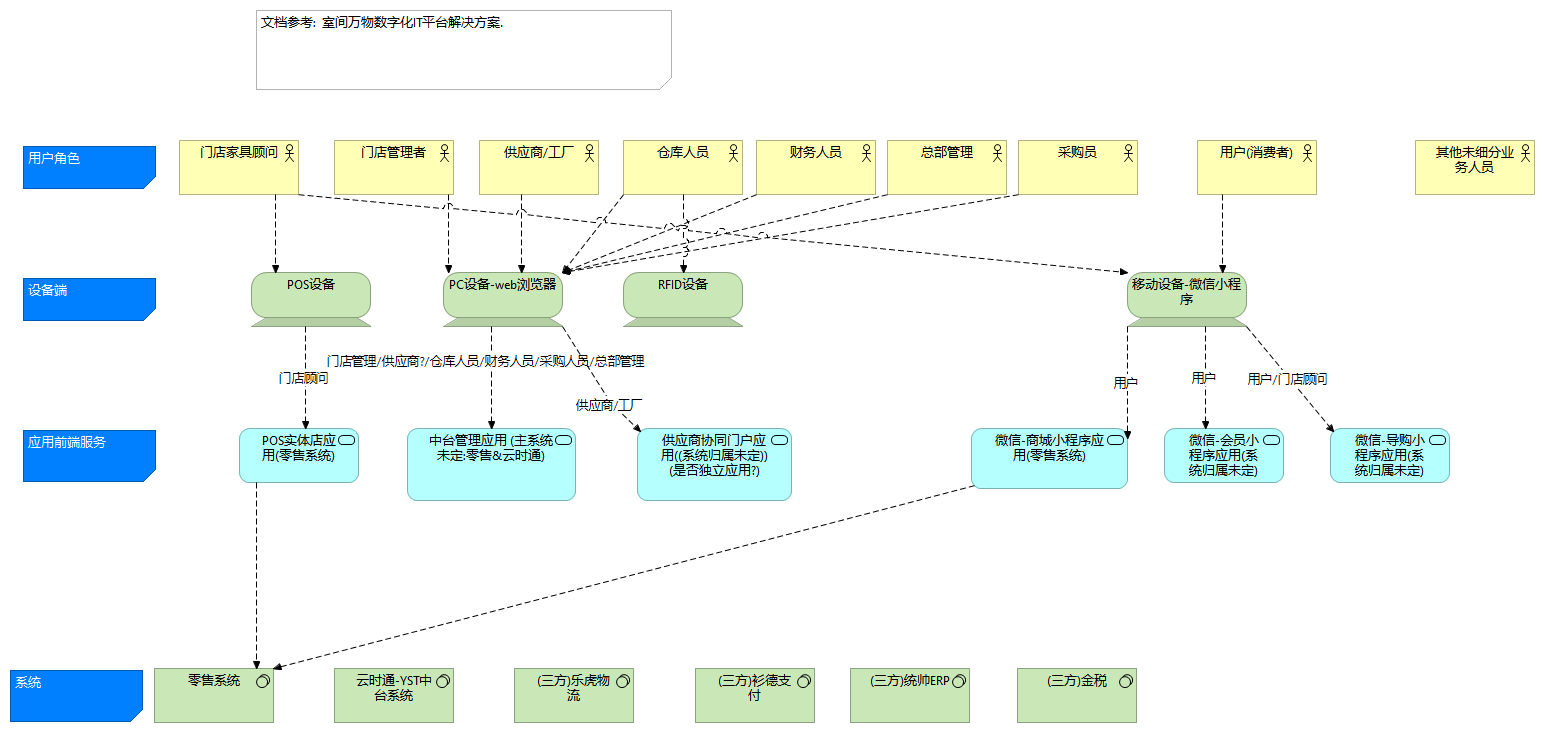
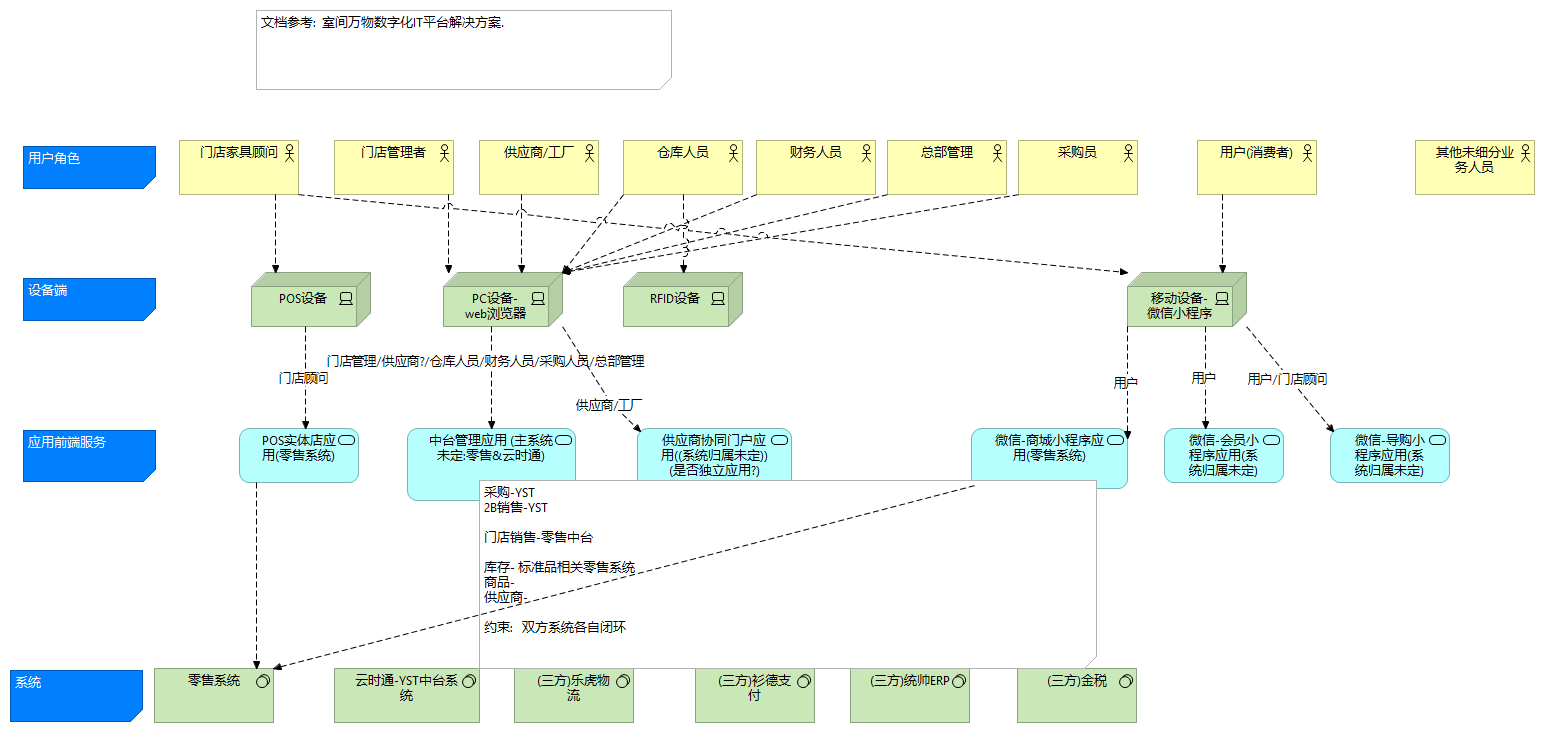
20250227

diff --git a/34770de6-0f0d-4ed1-897c-b10a5c500e00/views/65d1aa59-f700-429f-b2c6-605dea6f9c71.html b/34770de6-0f0d-4ed1-897c-b10a5c500e00/views/65d1aa59-f700-429f-b2c6-605dea6f9c71.html
@@ -34,55 +34,55 @@
 		    <!-- If this is a digram model (has children and no bounds) show the image -->
 			   <img class="diagram" src="../images/65d1aa59-f700-429f-b2c6-605dea6f9c71.png" alt="2.中台管理应用功能识别-系统数据与主数据" usemap="#65d1aa59-f700-429f-b2c6-605dea6f9c71map"/>
 			   <map name="65d1aa59-f700-429f-b2c6-605dea6f9c71map">
-				          <area shape="rect" coords="256,10,672,90" href="../objects/b4d12e95-c731-44cc-a542-ea11e295e5c4.html" target="element" >
-				          <area shape="rect" coords="10,790,143,842" href="../objects/8672bc64-2873-4649-9368-ef08358518ee.html" target="element" >
-				          <area shape="rect" coords="23,430,156,482" href="../objects/d6e04c95-81e4-4403-9e03-4d9f40adf0b7.html" target="element" >
-				          <area shape="rect" coords="23,278,156,321" href="../objects/6e0042a1-cdc5-4657-bc05-3d011d6d8c7a.html" target="element" >
-				          <area shape="rect" coords="23,146,156,189" href="../objects/bc2d6315-ab5c-4788-821f-82c86d2caf66.html" target="element" >
-				  		<area shape="rect" coords="887,140,1007,195" href="../elements/bf04395c-07aa-48e3-bec7-cad218525538.html"  target="element">
-				  		<area shape="rect" coords="756,140,876,195" href="../elements/6993d970-73ee-48ab-8b9b-7c3d75da7f14.html"  target="element">
-				  		<area shape="rect" coords="623,140,743,195" href="../elements/31a607ff-ae0f-4d7b-bacd-fe9e43547fcf.html"  target="element">
-				  		<area shape="rect" coords="637,428,792,501" href="../elements/18f5ea27-2885-484c-8cdc-212444555501.html"  target="element">
-				  		<area shape="rect" coords="334,140,454,195" href="../elements/ec091b66-deec-4b7e-976d-a58433a5390a.html"  target="element">
-				  		<area shape="rect" coords="1404,796,1524,851" href="../elements/c132eb31-96e9-4ef3-a9f5-3e6cc9db9bc7.html"  target="element">
-				  		<area shape="rect" coords="1392,736,1512,791" href="../elements/ec630327-4ba6-4493-8c44-feafc7791f64.html"  target="element">
-				  		<area shape="rect" coords="623,272,743,327" href="../elements/af401599-c58b-484c-9c59-db13b88a4204.html"  target="element">
-				  		<area shape="rect" coords="251,272,371,327" href="../elements/c2ad6df5-65f6-4c42-a41c-8dc0d42cc609.html"  target="element">
-				  		<area shape="rect" coords="407,428,576,501" href="../elements/bb185dc3-b20a-4772-ae32-eb51d147de0d.html"  target="element">
-				  		<area shape="rect" coords="1330,428,1450,483" href="../elements/1bde537c-7ef0-4525-9551-a9c09d62414c.html"  target="element">
-				  		<area shape="rect" coords="1164,428,1284,483" href="../elements/038bd236-f05f-4375-875e-16b2270ec657.html"  target="element">
-				  		<area shape="rect" coords="1261,736,1381,791" href="../elements/cff98cd9-3c2e-4d0e-8908-1f02d01187ee.html"  target="element">
-				  		<area shape="rect" coords="1127,272,1247,327" href="../elements/69b98a8f-6e68-44e1-8337-43479e1770f8.html"  target="element">
-				  		<area shape="rect" coords="443,272,563,327" href="../elements/10163c47-01a7-4303-96e5-4a00cf40bf8f.html"  target="element">
-				  		<area shape="rect" coords="239,428,359,483" href="../elements/f114dd21-3d0a-41fa-896e-3b674a56526e.html"  target="element">
-				  		<area shape="rect" coords="971,428,1128,489" href="../elements/b6be130b-13c3-4482-a697-8f8f8b68754b.html"  target="element">
-				  		<area shape="rect" coords="1197,140,1317,195" href="../elements/d9ce8c66-7105-4d32-985c-57b56bc5f8b4.html"  target="element">
-				  		<area shape="rect" coords="683,764,803,819" href="../elements/4f49d0bf-5bcc-430c-863f-5342fd9cbe9d.html"  target="element">
-				  		<area shape="rect" coords="370,764,490,819" href="../elements/c8524bae-0175-4184-a708-9c9602f63752.html"  target="element">
-				  		<area shape="rect" coords="1261,796,1381,851" href="../elements/548573e7-63f5-4b81-9220-5aff65c7950b.html"  target="element">
-				  		<area shape="rect" coords="179,140,299,195" href="../elements/51859db1-ea1e-49c4-b23a-d12d69e7b6fe.html"  target="element">
-				  		<area shape="rect" coords="1415,140,1535,195" href="../elements/bcc74262-ea1f-48ea-812f-06970028ea94.html"  target="element">
-				  		<area shape="rect" coords="1018,140,1138,195" href="../elements/8d4500b9-79d9-4577-ac1a-e2764b1bd6d5.html"  target="element">
-				  		<area shape="rect" coords="479,140,599,195" href="../elements/ea815ae4-3b8f-48dc-ba97-f4da7477a959.html"  target="element">
-				  				<area shape="rect" coords="269,647,389,702" href="../elements/c8e1d7ea-e530-45ca-b582-ffcbef54fafa.html"  target="element">
-				  				<area shape="rect" coords="150,647,270,702" href="../elements/ae98fcc6-f35d-46be-817e-b9bc3211d8e4.html"  target="element">
-				  				<area shape="rect" coords="388,593,508,648" href="../elements/8f224d70-a1a8-46ee-b3bc-12976883a94f.html"  target="element">
-				  				<area shape="rect" coords="269,593,389,648" href="../elements/b9b177cc-5a8c-4788-bbb1-96391625d2fe.html"  target="element">
-				  				<area shape="rect" coords="150,593,270,648" href="../elements/0bf12577-13b4-4a2a-9a59-4f0606b923c7.html"  target="element">
+				          <area shape="rect" coords="387,10,803,90" href="../objects/b4d12e95-c731-44cc-a542-ea11e295e5c4.html" target="element" >
+				          <area shape="rect" coords="10,780,143,832" href="../objects/8672bc64-2873-4649-9368-ef08358518ee.html" target="element" >
+				          <area shape="rect" coords="23,420,156,472" href="../objects/d6e04c95-81e4-4403-9e03-4d9f40adf0b7.html" target="element" >
+				          <area shape="rect" coords="23,268,156,311" href="../objects/6e0042a1-cdc5-4657-bc05-3d011d6d8c7a.html" target="element" >
+				          <area shape="rect" coords="23,136,156,179" href="../objects/bc2d6315-ab5c-4788-821f-82c86d2caf66.html" target="element" >
+				  		<area shape="rect" coords="887,130,1007,185" href="../elements/bf04395c-07aa-48e3-bec7-cad218525538.html"  target="element">
+				  		<area shape="rect" coords="756,130,876,185" href="../elements/6993d970-73ee-48ab-8b9b-7c3d75da7f14.html"  target="element">
+				  		<area shape="rect" coords="623,130,743,185" href="../elements/31a607ff-ae0f-4d7b-bacd-fe9e43547fcf.html"  target="element">
+				  		<area shape="rect" coords="637,418,792,491" href="../elements/18f5ea27-2885-484c-8cdc-212444555501.html"  target="element">
+				  		<area shape="rect" coords="334,130,454,185" href="../elements/ec091b66-deec-4b7e-976d-a58433a5390a.html"  target="element">
+				  		<area shape="rect" coords="1404,786,1524,841" href="../elements/c132eb31-96e9-4ef3-a9f5-3e6cc9db9bc7.html"  target="element">
+				  		<area shape="rect" coords="1392,726,1512,781" href="../elements/ec630327-4ba6-4493-8c44-feafc7791f64.html"  target="element">
+				  		<area shape="rect" coords="623,262,743,317" href="../elements/af401599-c58b-484c-9c59-db13b88a4204.html"  target="element">
+				  		<area shape="rect" coords="251,262,371,317" href="../elements/c2ad6df5-65f6-4c42-a41c-8dc0d42cc609.html"  target="element">
+				  		<area shape="rect" coords="407,418,576,491" href="../elements/bb185dc3-b20a-4772-ae32-eb51d147de0d.html"  target="element">
+				  		<area shape="rect" coords="1330,418,1450,473" href="../elements/1bde537c-7ef0-4525-9551-a9c09d62414c.html"  target="element">
+				  		<area shape="rect" coords="1164,418,1284,473" href="../elements/038bd236-f05f-4375-875e-16b2270ec657.html"  target="element">
+				  		<area shape="rect" coords="1261,726,1381,781" href="../elements/cff98cd9-3c2e-4d0e-8908-1f02d01187ee.html"  target="element">
+				  		<area shape="rect" coords="1127,262,1247,317" href="../elements/69b98a8f-6e68-44e1-8337-43479e1770f8.html"  target="element">
+				  		<area shape="rect" coords="443,262,563,317" href="../elements/10163c47-01a7-4303-96e5-4a00cf40bf8f.html"  target="element">
+				  		<area shape="rect" coords="239,418,359,473" href="../elements/f114dd21-3d0a-41fa-896e-3b674a56526e.html"  target="element">
+				  		<area shape="rect" coords="971,418,1128,479" href="../elements/b6be130b-13c3-4482-a697-8f8f8b68754b.html"  target="element">
+				  		<area shape="rect" coords="1197,130,1317,185" href="../elements/d9ce8c66-7105-4d32-985c-57b56bc5f8b4.html"  target="element">
+				  		<area shape="rect" coords="683,754,803,809" href="../elements/4f49d0bf-5bcc-430c-863f-5342fd9cbe9d.html"  target="element">
+				  		<area shape="rect" coords="370,754,490,809" href="../elements/c8524bae-0175-4184-a708-9c9602f63752.html"  target="element">
+				  		<area shape="rect" coords="1261,786,1381,841" href="../elements/548573e7-63f5-4b81-9220-5aff65c7950b.html"  target="element">
+				  		<area shape="rect" coords="179,130,299,185" href="../elements/51859db1-ea1e-49c4-b23a-d12d69e7b6fe.html"  target="element">
+				  		<area shape="rect" coords="1415,130,1535,185" href="../elements/bcc74262-ea1f-48ea-812f-06970028ea94.html"  target="element">
+				  		<area shape="rect" coords="1018,130,1138,185" href="../elements/8d4500b9-79d9-4577-ac1a-e2764b1bd6d5.html"  target="element">
+				  		<area shape="rect" coords="479,130,599,185" href="../elements/ea815ae4-3b8f-48dc-ba97-f4da7477a959.html"  target="element">
+				  				<area shape="rect" coords="269,637,389,692" href="../elements/c8e1d7ea-e530-45ca-b582-ffcbef54fafa.html"  target="element">
+				  				<area shape="rect" coords="150,637,270,692" href="../elements/ae98fcc6-f35d-46be-817e-b9bc3211d8e4.html"  target="element">
+				  				<area shape="rect" coords="388,583,508,638" href="../elements/8f224d70-a1a8-46ee-b3bc-12976883a94f.html"  target="element">
+				  				<area shape="rect" coords="269,583,389,638" href="../elements/b9b177cc-5a8c-4788-bbb1-96391625d2fe.html"  target="element">
+				  				<area shape="rect" coords="150,583,270,638" href="../elements/0bf12577-13b4-4a2a-9a59-4f0606b923c7.html"  target="element">
 
-				  		<area shape="rect" coords="126,545,526,737" href="../elements/db442271-58c0-4a13-bda1-b2e30a73565c.html"  target="element">
-				  				<area shape="rect" coords="657,633,777,688" href="../elements/b1c41c53-9bc3-4211-82bd-4e53949b1ab9.html"  target="element">
-				  				<area shape="rect" coords="776,633,896,688" href="../elements/99b89f0f-bb9c-4929-a4da-0c674b5b5d49.html"  target="element">
-				  				<area shape="rect" coords="895,633,1015,688" href="../elements/d5643bef-74f4-45ef-9288-d82ee232bd26.html"  target="element">
-				  				<area shape="rect" coords="1375,579,1495,634" href="../elements/3616b62b-f738-4871-8418-ea25ef13b535.html"  target="element">
-				  				<area shape="rect" coords="1256,579,1376,634" href="../elements/dc341068-4e06-4c32-849a-8aeaebdfdd39.html"  target="element">
-				  				<area shape="rect" coords="1137,579,1257,634" href="../elements/c1c6241a-a936-4c85-acd9-e9c138985282.html"  target="element">
-				  				<area shape="rect" coords="1014,579,1134,634" href="../elements/53dd6589-c909-4cef-a317-29fa61044d4c.html"  target="element">
-				  				<area shape="rect" coords="895,579,1015,634" href="../elements/f5236548-faf5-4d5b-a67d-04aaeacf62f3.html"  target="element">
-				  				<area shape="rect" coords="776,579,896,634" href="../elements/833c751d-4d3d-44ba-adfa-5f8c205549db.html"  target="element">
-				  				<area shape="rect" coords="657,579,777,634" href="../elements/0e28d206-8c3b-400d-8ce0-a2716548121a.html"  target="element">
+				  		<area shape="rect" coords="126,535,526,727" href="../elements/db442271-58c0-4a13-bda1-b2e30a73565c.html"  target="element">
+				  				<area shape="rect" coords="657,623,777,678" href="../elements/b1c41c53-9bc3-4211-82bd-4e53949b1ab9.html"  target="element">
+				  				<area shape="rect" coords="776,623,896,678" href="../elements/99b89f0f-bb9c-4929-a4da-0c674b5b5d49.html"  target="element">
+				  				<area shape="rect" coords="895,623,1015,678" href="../elements/d5643bef-74f4-45ef-9288-d82ee232bd26.html"  target="element">
+				  				<area shape="rect" coords="1375,569,1495,624" href="../elements/3616b62b-f738-4871-8418-ea25ef13b535.html"  target="element">
+				  				<area shape="rect" coords="1256,569,1376,624" href="../elements/dc341068-4e06-4c32-849a-8aeaebdfdd39.html"  target="element">
+				  				<area shape="rect" coords="1137,569,1257,624" href="../elements/c1c6241a-a936-4c85-acd9-e9c138985282.html"  target="element">
+				  				<area shape="rect" coords="1014,569,1134,624" href="../elements/53dd6589-c909-4cef-a317-29fa61044d4c.html"  target="element">
+				  				<area shape="rect" coords="895,569,1015,624" href="../elements/f5236548-faf5-4d5b-a67d-04aaeacf62f3.html"  target="element">
+				  				<area shape="rect" coords="776,569,896,624" href="../elements/833c751d-4d3d-44ba-adfa-5f8c205549db.html"  target="element">
+				  				<area shape="rect" coords="657,569,777,624" href="../elements/0e28d206-8c3b-400d-8ce0-a2716548121a.html"  target="element">
 
-				  		<area shape="rect" coords="645,555,1512,695" href="../elements/7c976f57-e40a-49ce-93a5-c0d96d37a202.html"  target="element">
+				  		<area shape="rect" coords="645,545,1512,685" href="../elements/7c976f57-e40a-49ce-93a5-c0d96d37a202.html"  target="element">
 
 			   </map>
 

diff --git a/34770de6-0f0d-4ed1-897c-b10a5c500e00/views/df3fab99-678c-4a3c-8ea5-64b352afeca6.html b/34770de6-0f0d-4ed1-897c-b10a5c500e00/views/df3fab99-678c-4a3c-8ea5-64b352afeca6.html
@@ -34,6 +34,7 @@
 		    <!-- If this is a digram model (has children and no bounds) show the image -->
 			   <img class="diagram" src="../images/df3fab99-678c-4a3c-8ea5-64b352afeca6.png" alt="1.应用角色/端/应用/系统关系识别" usemap="#df3fab99-678c-4a3c-8ea5-64b352afeca6map"/>
 			   <map name="df3fab99-678c-4a3c-8ea5-64b352afeca6map">
+				          <area shape="rect" coords="479,480,1097,669" href="../objects/f942c26a-ac5d-4f87-976a-0b3f2e139fb3.html" target="element" >
 				          <area shape="rect" coords="256,10,672,90" href="../objects/249b8187-bf31-4edd-aee3-52da4f2b4181.html" target="element" >
 				          <area shape="rect" coords="10,670,143,722" href="../objects/391b16d3-fe49-4176-b110-372df5b78f31.html" target="element" >
 				          <area shape="rect" coords="23,430,156,482" href="../objects/d471debd-a140-48b2-9c7a-700908f712a9.html" target="element" >
@@ -57,7 +58,7 @@
 				  		<area shape="rect" coords="239,428,359,483" href="../elements/f114dd21-3d0a-41fa-896e-3b674a56526e.html"  target="element">
 				  		<area shape="rect" coords="971,428,1128,489" href="../elements/b6be130b-13c3-4482-a697-8f8f8b68754b.html"  target="element">
 				  		<area shape="rect" coords="1197,140,1317,195" href="../elements/d9ce8c66-7105-4d32-985c-57b56bc5f8b4.html"  target="element">
-				  		<area shape="rect" coords="334,668,454,723" href="../elements/4f49d0bf-5bcc-430c-863f-5342fd9cbe9d.html"  target="element">
+				  		<area shape="rect" coords="334,668,480,723" href="../elements/4f49d0bf-5bcc-430c-863f-5342fd9cbe9d.html"  target="element">
 				  		<area shape="rect" coords="154,668,274,723" href="../elements/c8524bae-0175-4184-a708-9c9602f63752.html"  target="element">
 				  		<area shape="rect" coords="514,668,634,723" href="../elements/548573e7-63f5-4b81-9220-5aff65c7950b.html"  target="element">
 				  		<area shape="rect" coords="179,140,299,195" href="../elements/51859db1-ea1e-49c4-b23a-d12d69e7b6fe.html"  target="element">
@@ -258,6 +259,11 @@
 									           <td> <a href="../objects/249b8187-bf31-4edd-aee3-52da4f2b4181.html" target="element" class="i18n-elementtype-DiagramModelNote"> </a> </td>
 									        </tr>
 
+									        <tr>
+									           <td> <a href="../objects/f942c26a-ac5d-4f87-976a-0b3f2e139fb3.html" target="element">  </a> </td>
+									           <td> <a href="../objects/f942c26a-ac5d-4f87-976a-0b3f2e139fb3.html" target="element" class="i18n-elementtype-DiagramModelNote"> </a> </td>
+									        </tr>
+
 
 								</tbody>
 							</table>
@@ -394,6 +400,7 @@
 																		<td> <a href="../elements/10163c47-01a7-4303-96e5-4a00cf40bf8f.html" target="element"> PC&#35774;&#22791;-web&#27983;&#35272;&#22120; </a> </td>
 																	</tr>
 
+											<!-- DEBUG: Skipping element from class com.archimatetool.model.impl.DiagramModelNote -->
 											<!-- DEBUG: Skipping element from class com.archimatetool.model.impl.DiagramModelNote -->
 											<!-- DEBUG: Skipping element from class com.archimatetool.model.impl.DiagramModelNote -->
 											<!-- DEBUG: Skipping element from class com.archimatetool.model.impl.DiagramModelNote -->

diff --git a/34770de6-0f0d-4ed1-897c-b10a5c500e00/elements/model.html b/34770de6-0f0d-4ed1-897c-b10a5c500e00/elements/model.html
@@ -868,6 +868,29 @@
 										dataFoldersContent.push({folderid:"1fd97be9-561c-43fb-b750-8ff8e331a9c5", contentid:"0db2ba29-51c0-479f-9ffc-2c6b13c845ff", contenttype:"CanvasModel"});
 											dataViews.push({id:"0db2ba29-51c0-479f-9ffc-2c6b13c845ff", type:"CanvasModel", name:decodeURL("%E5%94%AE%E5%89%8D%E4%B8%9A%E5%8A%A1%E6%9D%90%E6%96%99"), documentation:decodeURL("")});
 
+									dataFoldersContent.push({folderid:"038ea2ec-8da2-4d90-a6c0-cffe7434323b", contentid:"id-5a45cf3d65374534a799f71412d6d9ae", contenttype:"Folder"});
+									dataFolders.push({id:"id-5a45cf3d65374534a799f71412d6d9ae", type:"Folder", name:decodeURL("%E9%92%89%E9%92%89%E5%B7%A5%E4%BD%9C%E6%B5%81%E9%9B%86%E6%88%90"), documentation:decodeURL("")});
+										dataFoldersContent.push({folderid:"id-5a45cf3d65374534a799f71412d6d9ae", contentid:"27e15e73-f31a-430b-8958-1c5d27cbc865", contenttype:"SketchModel"});
+											dataViews.push({id:"27e15e73-f31a-430b-8958-1c5d27cbc865", type:"SketchModel", name:decodeURL("%E9%92%89%E9%92%89%E6%B5%81%E7%A8%8B%E5%BC%80%E5%8F%91%E8%BF%87%E7%A8%8B1-%E4%B8%9A%E5%8A%A1%E5%B7%A5%E4%BD%9C%E6%B5%81%E7%A8%8B%E5%88%9B%E5%BB%BA"), documentation:decodeURL("")});
+													
+															
+													
+
+													
+															
+													
+
+										dataFoldersContent.push({folderid:"id-5a45cf3d65374534a799f71412d6d9ae", contentid:"94fff974-a3a0-4990-96d8-9220cb84f2e7", contenttype:"SketchModel"});
+											dataViews.push({id:"94fff974-a3a0-4990-96d8-9220cb84f2e7", type:"SketchModel", name:decodeURL("%E9%92%89%E9%92%89%E6%B5%81%E7%A8%8B%E5%BC%80%E5%8F%91%E8%BF%87%E7%A8%8B2-%E5%AE%A1%E6%89%B9%E5%9B%9E%E8%B0%83%E4%B8%9A%E5%8A%A1%E5%BC%80%E5%8F%91"), documentation:decodeURL("")});
+													
+													
+
+													
+													
+
+										dataFoldersContent.push({folderid:"id-5a45cf3d65374534a799f71412d6d9ae", contentid:"cb21b1d0-de17-4afd-83f1-983378ecd4d7", contenttype:"SketchModel"});
+											dataViews.push({id:"cb21b1d0-de17-4afd-83f1-983378ecd4d7", type:"SketchModel", name:decodeURL("%E9%92%89%E9%92%89%E6%95%B0%E6%8D%AE%E5%90%8C%E6%AD%A5%E6%96%B9%E6%A1%88"), documentation:decodeURL("")});
+
 
 									dataFoldersContent.push({folderid:"038ea2ec-8da2-4d90-a6c0-cffe7434323b", contentid:"8c784dc2-b24a-409e-8bf4-82c4cb5d9a7f", contenttype:"ArchimateDiagramModel"});
 										dataViews.push({id:"8c784dc2-b24a-409e-8bf4-82c4cb5d9a7f", type:"ArchimateDiagramModel", name:decodeURL("%E9%BB%98%E8%AE%A4%E8%A7%86%E5%9B%BE"), documentation:decodeURL("")});

diff --git a/index.html b/index.html
@@ -519,6 +519,13 @@
 													<li class="tree-element"><a href="34770de6-0f0d-4ed1-897c-b10a5c500e00/views/0db2ba29-51c0-479f-9ffc-2c6b13c845ff.html" target="view"> &#21806;&#21069;&#19994;&#21153;&#26448;&#26009; </a></li>
 
 									</ul>
+									</li><li class="tree-folder"><span><i class="glyphicon glyphicon-triangle-right"></i> &#38025;&#38025;&#24037;&#20316;&#27969;&#38598;&#25104; </span>
+									<ul>
+													<li class="tree-element"><a href="34770de6-0f0d-4ed1-897c-b10a5c500e00/views/27e15e73-f31a-430b-8958-1c5d27cbc865.html" target="view"> &#38025;&#38025;&#27969;&#31243;&#24320;&#21457;&#36807;&#31243;1-&#19994;&#21153;&#24037;&#20316;&#27969;&#31243;&#21019;&#24314; </a></li>
+													<li class="tree-element"><a href="34770de6-0f0d-4ed1-897c-b10a5c500e00/views/94fff974-a3a0-4990-96d8-9220cb84f2e7.html" target="view"> &#38025;&#38025;&#27969;&#31243;&#24320;&#21457;&#36807;&#31243;2-&#23457;&#25209;&#22238;&#35843;&#19994;&#21153;&#24320;&#21457; </a></li>
+													<li class="tree-element"><a href="34770de6-0f0d-4ed1-897c-b10a5c500e00/views/cb21b1d0-de17-4afd-83f1-983378ecd4d7.html" target="view"> &#38025;&#38025;&#25968;&#25454;&#21516;&#27493;&#26041;&#26696; </a></li>
+
+									</ul>
 									</li>
 											<li class="tree-element"><a href="34770de6-0f0d-4ed1-897c-b10a5c500e00/views/8c784dc2-b24a-409e-8bf4-82c4cb5d9a7f.html" target="view"> &#40664;&#35748;&#35270;&#22270; </a></li>
 
